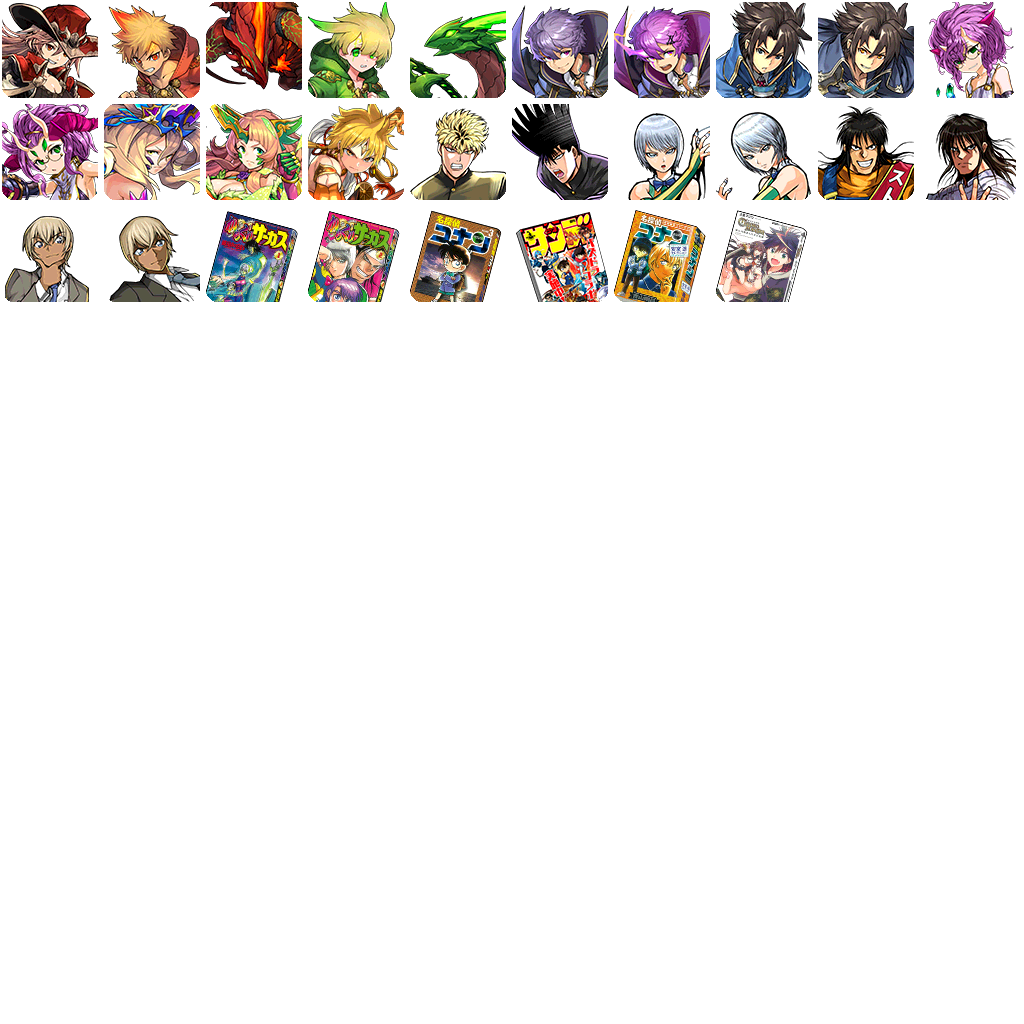
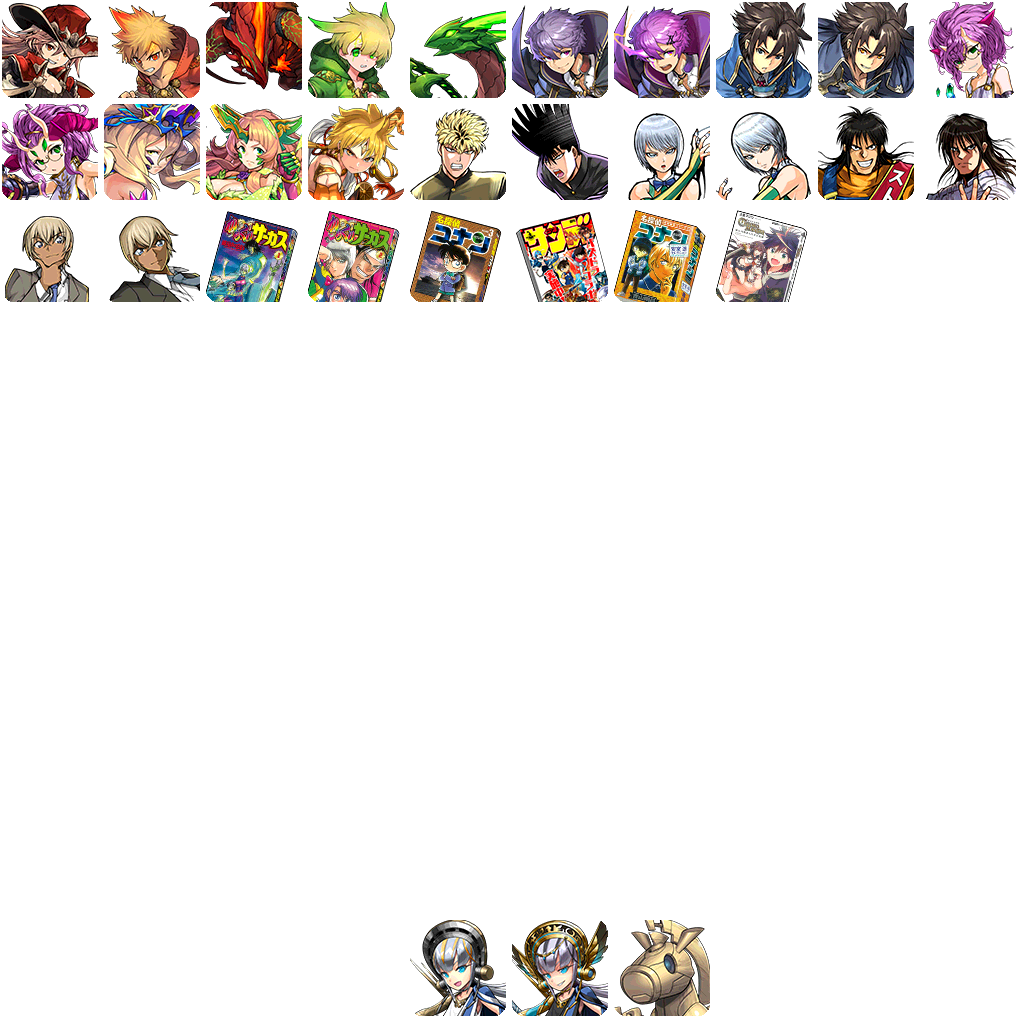
新增特洛伊木马

Changed region(s): [[0.4062, 0.875, 0.7188, 1.0]]

diff --git a/生成二技宠物JSON.js b/生成二技宠物JSON.js
@@ -40,8 +40,7 @@ var monsterList = [
         2893, //魂缚的黑冥姬・赫尔
     ]},
     {group: "埃及神话",ids: [
-        3259, //- 隼护の冥蝎神・セルケト
-        3977, //燃烧荷鲁斯
+        3259, //隼护の冥蝎神・セルケト
     ]},
     {group: "日本百鬼",ids: [
         2805, //恶鬼的首领・酒呑童子
@@ -130,7 +129,11 @@ var monsterList = [
         3881, //幽姿的狂鬼・桥姬
     ]},
     {group: "本家特别版角色（限时）",ids: [
+        3977, //燃烧荷鲁斯
         4226, //情人節巧克力【四神】
+    ]},
+    {group: "宠物交换所（免费宠兑换）",ids: [
+        4897, //特洛伊的木馬
     ]},
     {group: "GungHo其他游戏合作（限时）",ids: [
         4723, //神機普路托斯的卡

diff --git a/universal_function.js b/universal_function.js
@@ -77,6 +77,7 @@ function specialCharacterReplace(str)
         ["経","经"],
         ["獣","兽"],
         ["贰","二"],
+        ["亀","龟"],
         ["マグマ", "岩浆"],
         ["ブリザード", "暴雪"],
         ["ガイア", "盖亚"],
